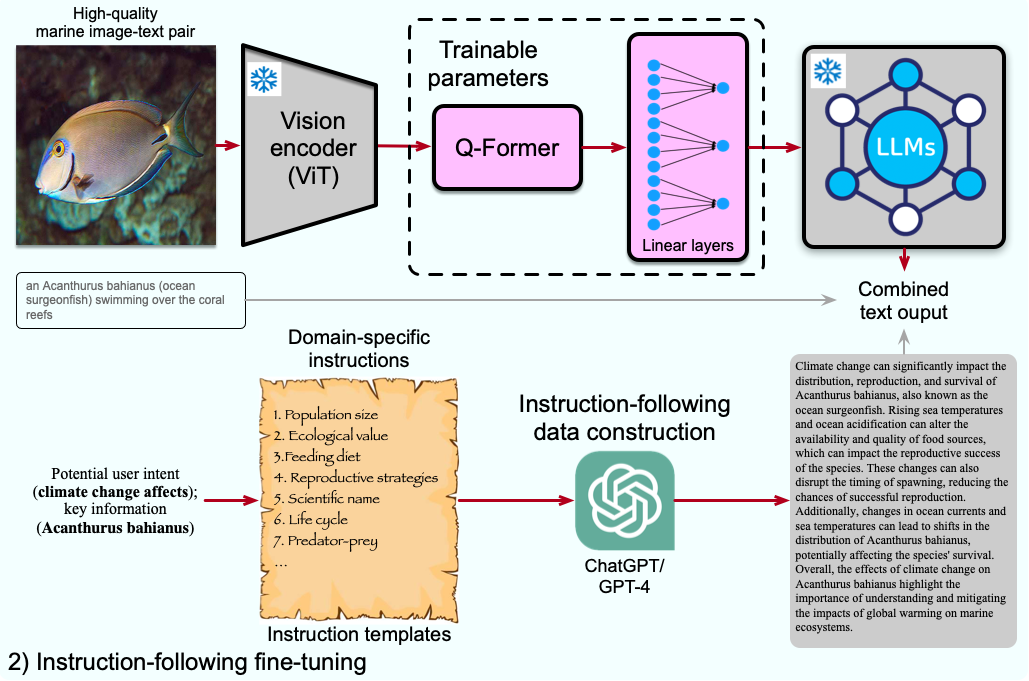
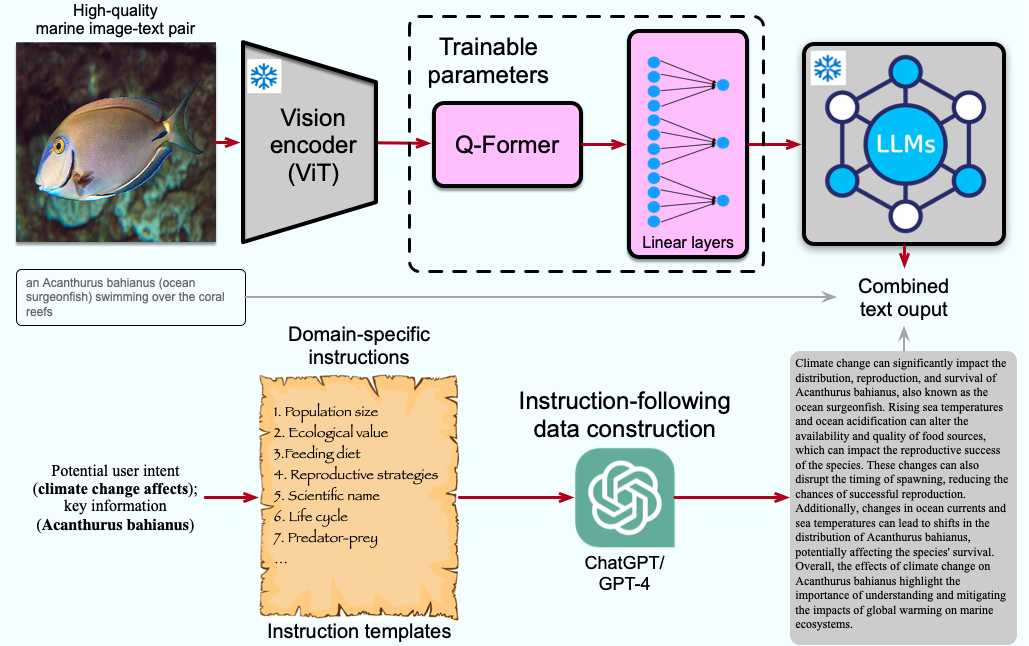
adjust image size

diff --git a/_pages/about.html b/_pages/about.html
@@ -218,7 +218,6 @@ author_profile: true
     </div>
   </div>
 
-  <div style="margin-top: 2em; border-top: 2px solid #ddd; padding-top: 2em;"></div>
   <h3>👁🗨 🌊 🪸 Vision-Language, Marine Image Analysis, Video Understanding & Foundation Models</h3>
   <h5><u>Focus:</u> conditioning segmentation/recognition on language; marine instance understanding, retrieval, datasets, and marine-focused VLM/LLM directions.</h5>
  
@@ -321,7 +320,7 @@ author_profile: true
       <a href="https://marinegpt.hkustvgd.com/">Project Page</a>
       <a href="https://arxiv.org/abs/2310.13596">Paper (arxiv)</a>
       <a href="https://github.com/hkust-vgd/MarineGPT">Code</a>
-      </span> <br> </p>
+      </span> <br> <br> </p>
     </div>
   </div>
 
@@ -354,7 +353,7 @@ author_profile: true
       <strong><a href="https://github.com/StructuresComp/hidden-fruits">
       HiddenObject: Modality Agnostic Fusion for Multimodal Hidden Object Detection</a></strong>
       <br>
-      Harris Song*, <u>Tuan-Anh Vu*†</u>, Sanjith Menon, Sriram Narasimhan, M. Khalid Jawed<br>
+      Harris Song*, <u>Tuan-Anh Vu*†</u>, Sanjith Menon, Sriram Narasimhan, and M. Khalid Jawed<br>
       <em>Preprint</em>, 2025 <br>
       <span class="links">
       <a href="https://arxiv.org/pdf/2508.21135">Paper</a>
@@ -471,7 +470,7 @@ author_profile: true
       <em>Preprint</em>, 2025 <br>
       <span class="links">
       <a href="https://drone.structures.computer/">Project Page</a>
-      </span> <br> </p>
+      </span> <br> <br> </p>
     </div>
   </div>
 
@@ -498,7 +497,7 @@ author_profile: true
       <strong><a href="https://jaehwan-j.github.io/agrichrono/">
       AgriChrono: A Multi-modal Dataset Capturing Crop Growth and Lighting Variability with a Field Robot</a></strong>
       <br>
-      Jaehwan Jeong, <u>Tuan-Anh Vu†</u>, Mohammad Jony, Shahab Ahmad, Md Mukhlesur Rahman, Sangpil Kim#, M. Khalid Jawed#<br>
+      Jaehwan Jeong, <u>Tuan-Anh Vu†</u>, Mohammad Jony, Shahab Ahmad, Md Mukhlesur Rahman, Sangpil Kim#, and M. Khalid Jawed#<br>
       <em>Preprint</em>, 2025 <br>
       <span class="links">
         <a href="https://jaehwan-j.github.io/agrichrono/"">Project Page</a>
@@ -515,7 +514,7 @@ author_profile: true
       <strong><a href="https://arxiv.org/abs/2405.14169">
       Towards Transferable Attacks Against Vision-LLMs in Autonomous Driving with Typography</a></strong>
       <br>
-      Nhat Minh Chung, Sensen Gao, <u>Tuan-Anh Vu</u>, Jie Zhang, Aishan Liu, Yun Lin, Jin Song Dong, Qing Guo<br>
+      Nhat Minh Chung, Sensen Gao, <u>Tuan-Anh Vu</u>, Jie Zhang, Aishan Liu, Yun Lin, Jin Song Dong, and Qing Guo<br>
       <em>Preprint</em>, 2024 <br>
       <span class="links">
       <a href="https://arxiv.org/abs/2405.14169">Paper</a>
@@ -533,6 +532,7 @@ author_profile: true
       <strong><a href="{{ base_path }}/files/TAVU_PhD_Dissertation_compress.pdf">
         Robust Scene Understanding in Challenging Scenarios</a></strong>
       <br>
+      <u>Ph.D. Dissertation at HKUST</u><br>
       <u>Tuan-Anh Vu</u><br>
       <b><em>ECCV 2024 Doctoral Consortium, mentored by <a href="https://scholar.google.com/citations?user=5JlEyTAAAAAJ&hl=en">Prof. Leonidas Guibas</a></em></b><br>
       <b><em>IEEE CAI 2024 Doctoral Consortium, mentored by <a href="https://scholar.google.com.sg/citations?user=rJMOlVsAAAAJ&hl=en">Prof. Ivor W Tsang</a></em></b><br>
@@ -552,10 +552,11 @@ author_profile: true
       <strong><a href="{{ base_path }}/files/TAVU_BSc_Thesis.pdf">
         Extend Traffic Signs Detection and Recognition Algorithm in Nighttime in Viet Nam</a></strong>
       <br>
+      <u>BSc Thesis at HCMIU-VNU</u><br>
       <u>Tuan-Anh Vu</u><br>
       <span class="links">
         <a href="{{ base_path }}/files/TAVU_BSc_Thesis.pdf">Thesis</a>
-      </span> <br> </p>
+      </span> <br> <br> </p>
     </div>
   </div>
 
